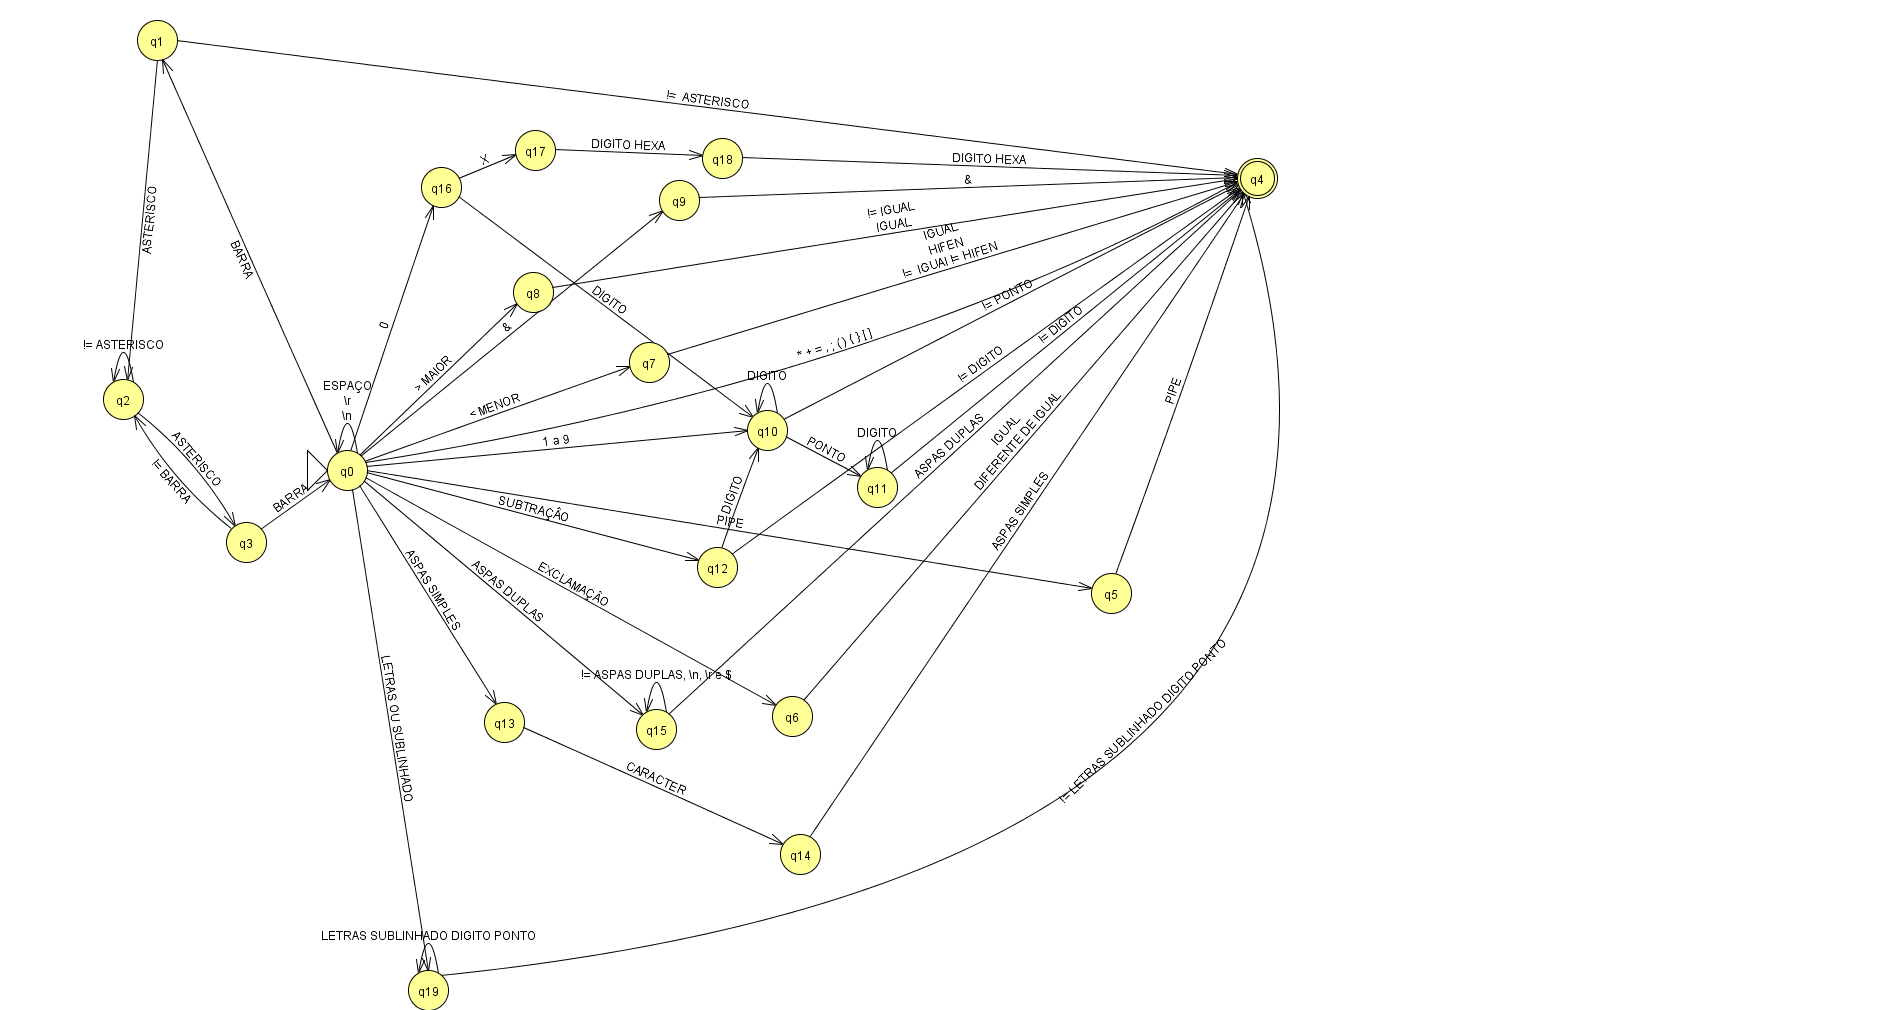
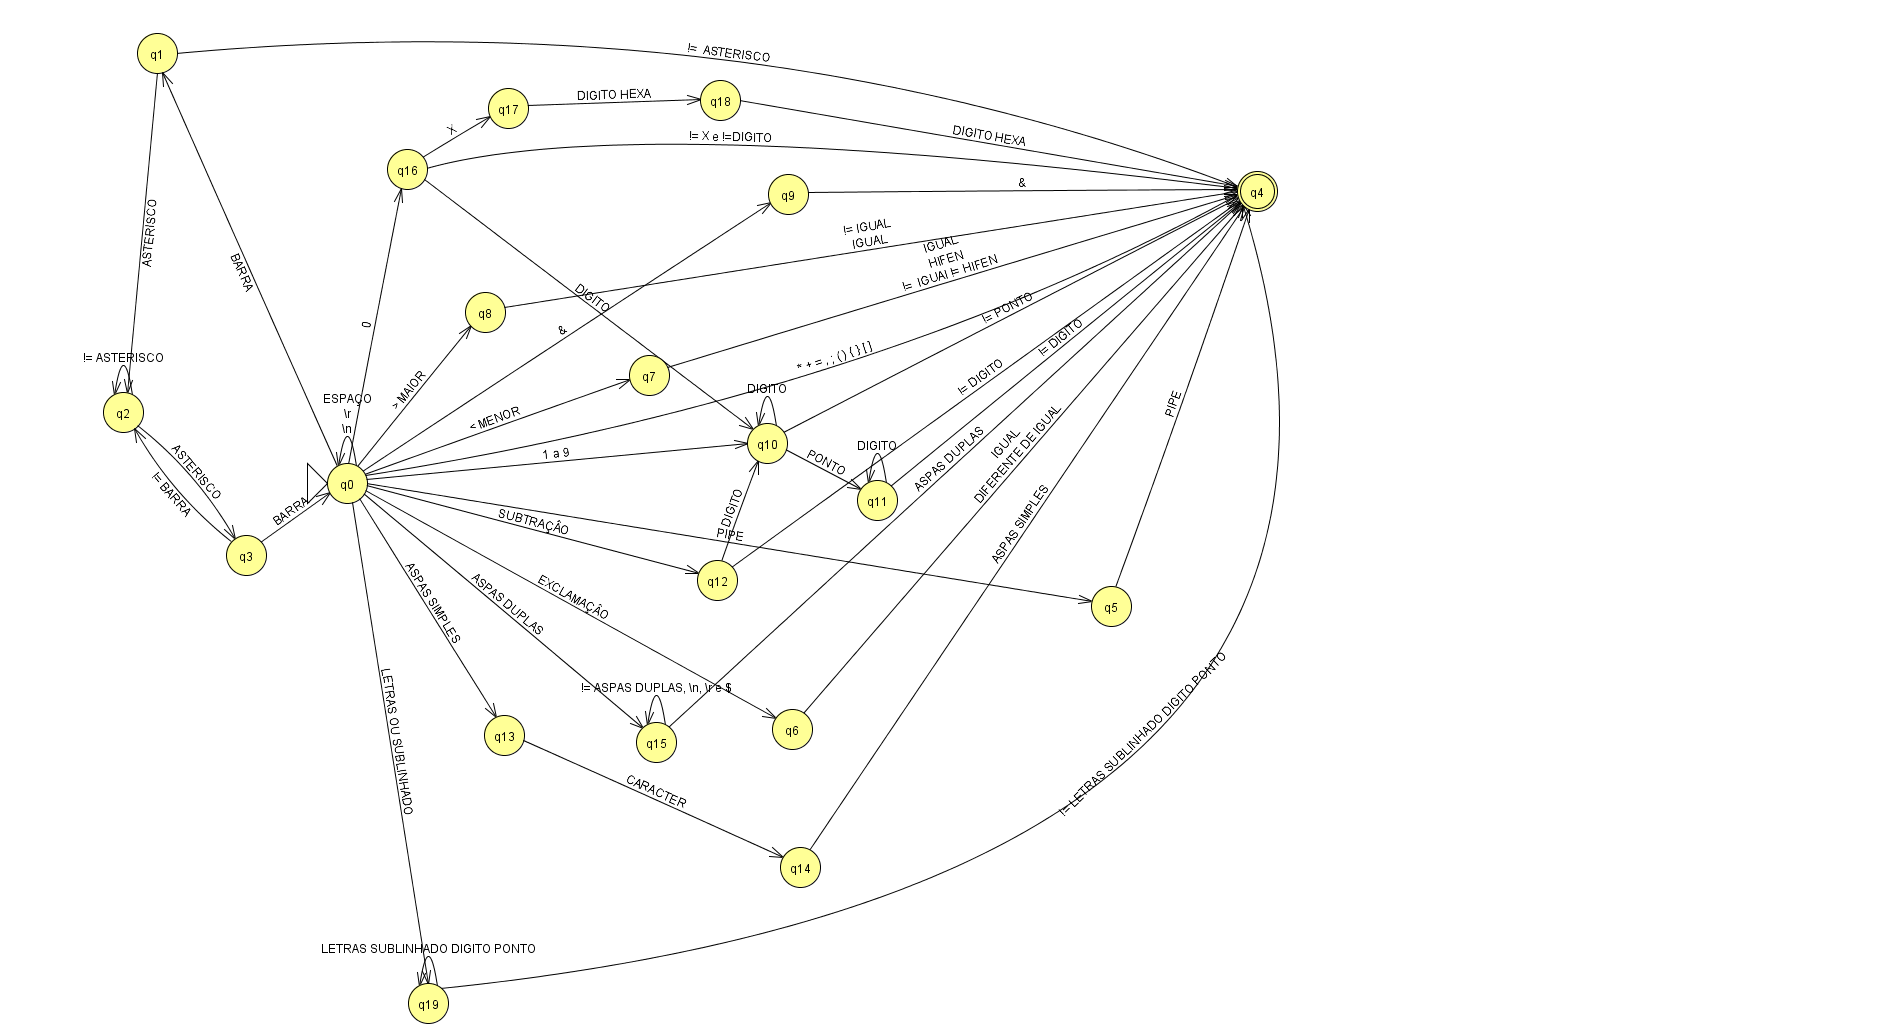
Alguns updates no lexico

diff --git a/Compiler.java b/Compiler.java
@@ -211,9 +211,10 @@ class SyntaxAnalyzer {
         this.lexicalAnalyzer = lexicalAnalyzer;
 
         Reader reader = lexicalAnalyzer.reader;
-        while(reader.position < reader.code.length()-1){
+        while(reader.position < reader.code.length()){
             LexicalRegister register = lexicalAnalyzer.getNextToken();
-            register.print();
+            if(register!=null)
+                register.print();
         }
         System.out.println(lexicalAnalyzer.currentLine + " linhas compiladas");
     }
@@ -227,11 +228,11 @@ class LexicalAnalyzer {
     private final SymbolTable symbolTable = SymbolTable.getInstance();
 
 
-    private static final HashSet<Character> acceptedCharacters =  new HashSet<Character>(Arrays.asList( '0', '1', '2', '3',
+    private static final HashSet<Character> acceptedCharacters = new HashSet<>(Arrays.asList('0', '1', '2', '3',
             '4', '5', '6', '7', '8', '9', 'A', 'B', 'C', 'D', 'E', 'F', 'G', 'H', 'I', 'J', 'K', 'L', 'M', 'N', 'O', 'P',
             'Q', 'R', 'S', 'T', 'U', 'V', 'W', 'X', 'Y', 'Z','a', 'b', 'c', 'd', 'e', 'f', 'g', 'h', 'i', 'j', 'k', 'l',
             'm', 'n', 'o', 'p', 'q', 'r', 's', 't', 'u', 'v', 'w', 'x', 'y', 'z',' ', '_', '.', ',', ';', ':', '(', ')',
-            '[', ']', '{', '}', '+', '-', '*', '\"','\'','/', '|', '\\', '&', '%', '!', '?', '>', '<', '=', '\n', '\r' ));
+            '[', ']', '{', '}', '+', '-', '*', '\"','\'','/', '|', '\\', '&', '%', '!', '?', '>', '<', '=', '\n', '\r', '\0' ));
 
 
     public LexicalAnalyzer(Reader reader) {
@@ -262,7 +263,7 @@ class LexicalAnalyzer {
 
         int finalState = 4;
 
-        while(currentState != finalState && reader.position < reader.code.length()-1) {
+        while(currentState != finalState && reader.position < reader.code.length()) {
             if(!verifyIsValidCharacter(currentCharacter)){
                 throw new CompilerError("caractere invalido.", currentLine);
             }
@@ -318,8 +319,11 @@ class LexicalAnalyzer {
                     else if(isCharLetter(currentCharacter) || currentCharacter == '_' ){
                         currentState = 19;
                     }
+                    else if(currentCharacter == '\0'){
+                        currentCharacter = null;
+                    }
                     else {
-                        throw new CompilerError("lexema nao identificado [" + currentLexeme + "]", currentLine);
+                        throw new CompilerError("lexema nao identificado [" + currentLexeme+currentCharacter + "]", currentLine);
                     }
                     break;
                 case 1:
@@ -336,6 +340,9 @@ class LexicalAnalyzer {
                 case 2:
                     if(currentCharacter == '*') {
                         currentState = 3;
+                    }
+                    else if(currentCharacter == '\0'){
+                        throw new CompilerError("fim de Arquivo nao esperado.", currentLine);
                     }
                     currentCharacter = null;
                     break;
@@ -444,7 +451,10 @@ class LexicalAnalyzer {
                         currentState = 10;
                     }
                     else {
-                        throw new CompilerError("lexema nao identificado [" + currentLexeme + "]", currentLine);
+                        currentState = 4;
+                        lastCharacter = currentCharacter;
+                        constType = ConstType.INT;
+                        constSize = Constants.IntBytesSize;
                     }
                     break;
                 case 17:
@@ -477,8 +487,12 @@ class LexicalAnalyzer {
             if(currentCharacter != null && lastCharacter == null)
                 currentLexeme += currentCharacter;
             reader.position++;
-            currentCharacter = reader.code.charAt(reader.position);
+            if(reader.position < reader.code.length())
+                currentCharacter = reader.code.charAt(reader.position);
         }
+
+        if(currentLexeme.isEmpty())
+            return null;
 
         return createLexicalRegister(currentLexeme, constType, constSize);
     }
@@ -560,6 +574,7 @@ class Reader {
             code +=currentLine + '\n';
             numOfLines++;
         }
+        code+='\0';
         scanner.close();
     }
 }
